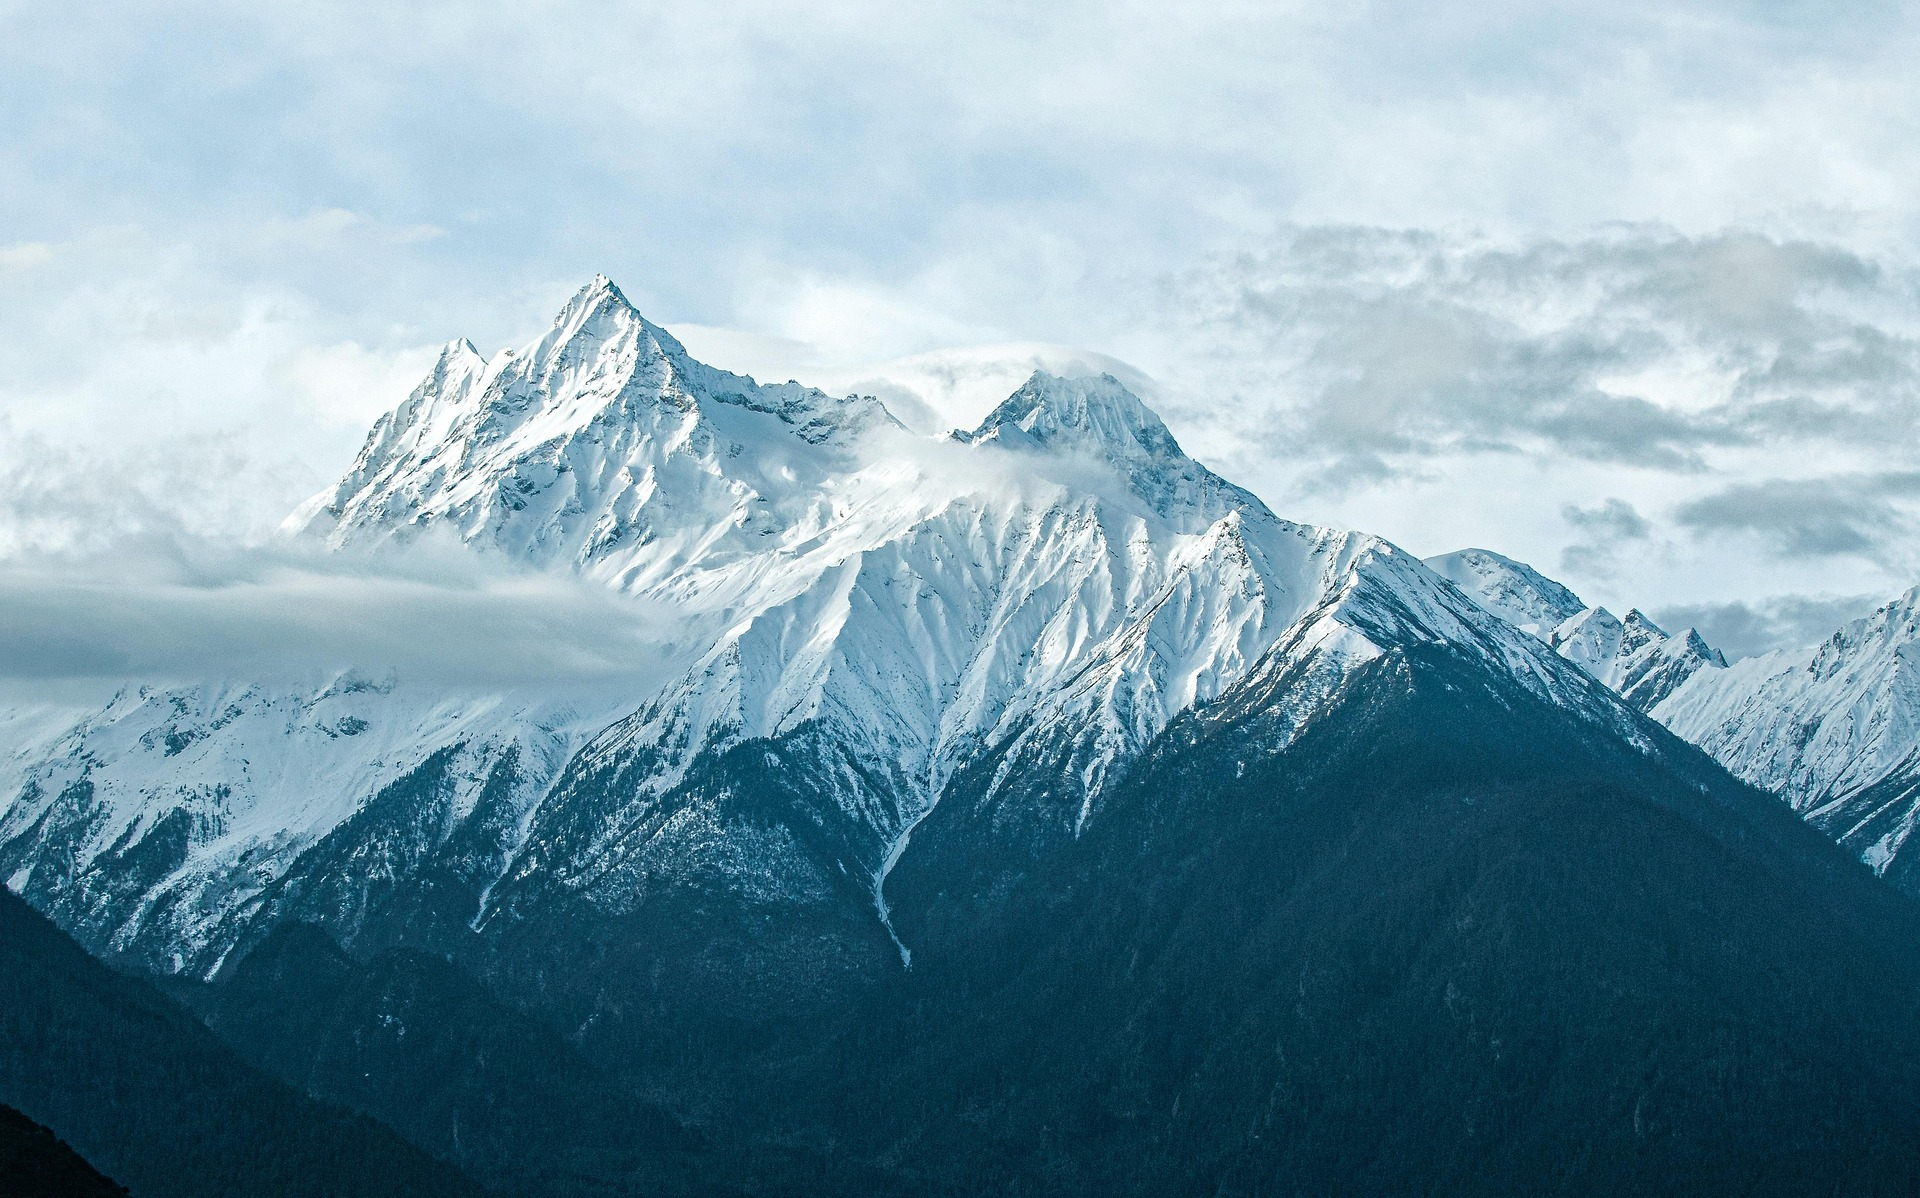
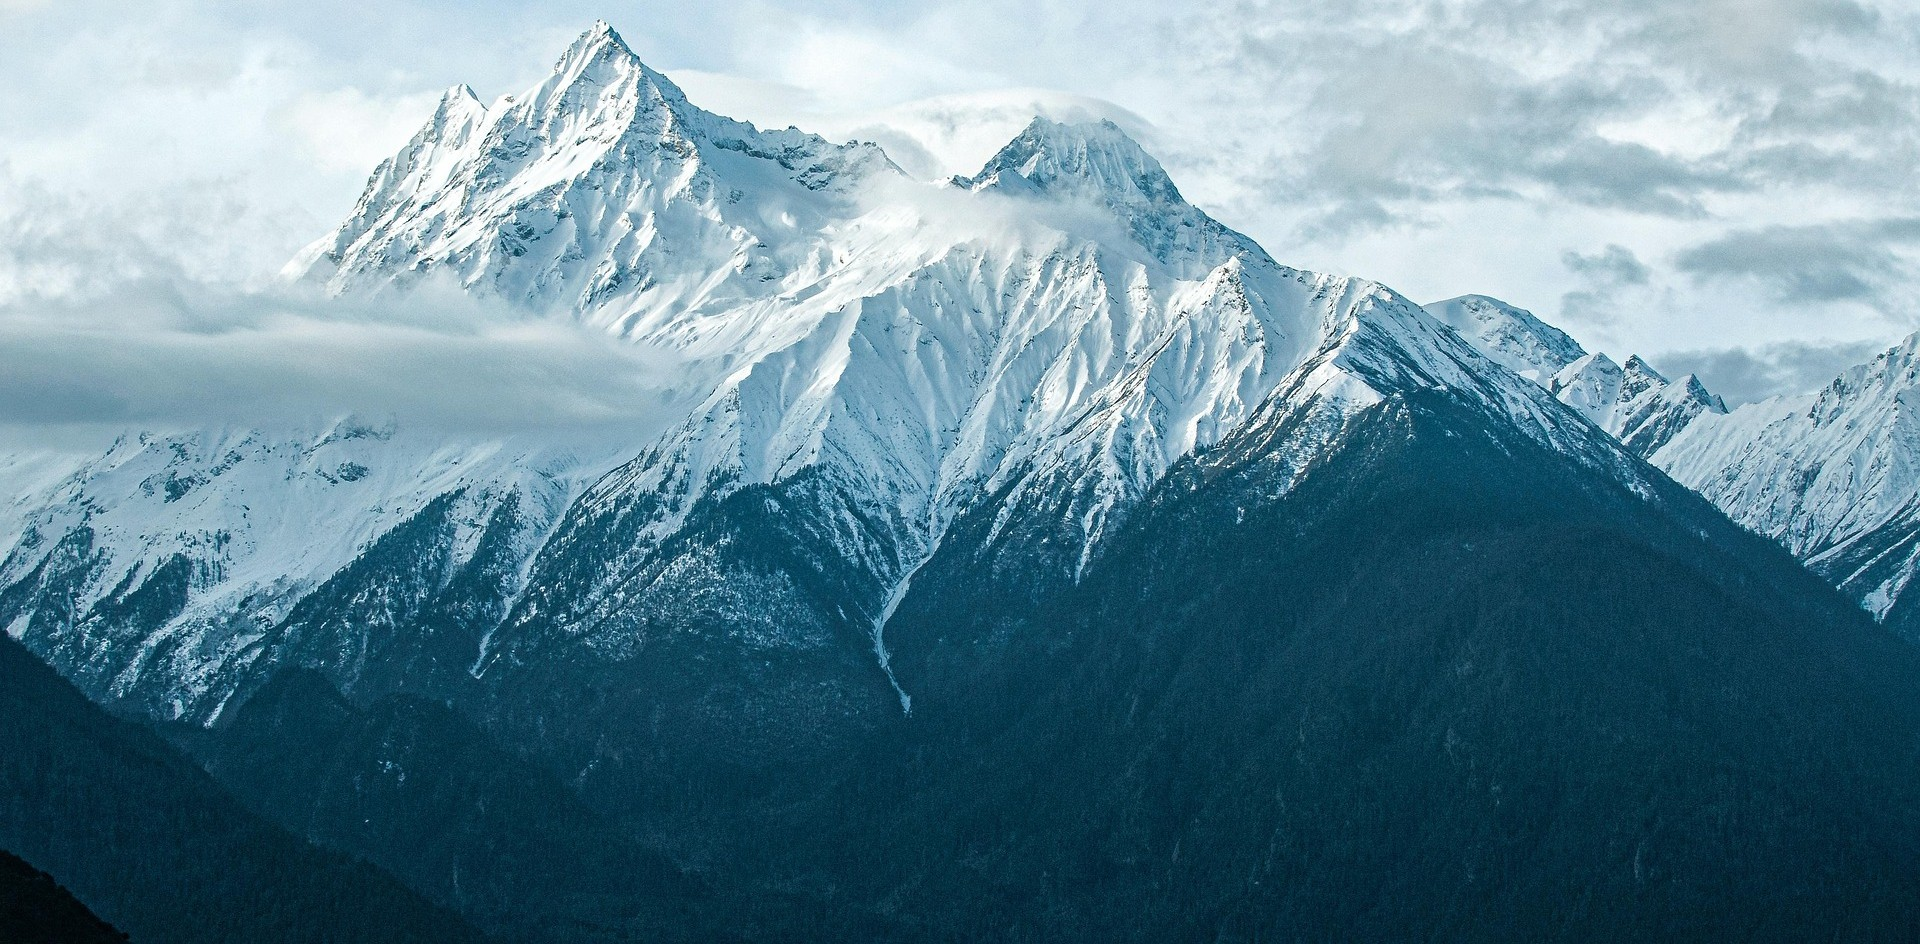
Updated accordingly to the given Image

diff --git a/week-1/profile/style.css b/week-1/profile/style.css
@@ -1,18 +1,19 @@
-body{
+body {
     margin: 0;
-    font-family:system-ui, -apple-system, BlinkMacSystemFont, 'Segoe UI', Roboto, Oxygen, Ubuntu, Cantarell, 'Open Sans', 'Helvetica Neue', sans-serif;
+    font-family: 'Franklin Gothic Medium', 'Arial Narrow', Arial, sans-serif;
+    /* font-family:'Franklin Gothic Medium', 'Arial Narrow', Arial, sans-serif; */
 }
 
-.intro{
+.intro {
     width: 100%;
-    height: 600px;
+    height: 360px;
     position: relative;
     background-image: url(./assets/mountain.jpg);
     background-repeat: no-repeat;
 
 }
 
-.intro::before{
+.intro::before {
     content: "";
     background-color: black;
     background-size: cover;
@@ -28,17 +29,17 @@ body{
 }
 
 .intro .profile{
-    width: 300px;
-    height: 300px;
+    width: 100px;
+    height: 100px;
     border-radius: 100%;
-    top: 50px;
+    top: 70px;
     left: 5%;
     position: absolute;
 }
 
 .intro .name{
     position: absolute;
-    top: 350px;
+    top: 137px;
     left: 5%;
     font-size: 4em;
     color: #fff;
@@ -47,25 +48,26 @@ body{
 
 .intro .designation{
     position: absolute;
-    top: 450px;
+    top: 240px;
     left: 5%;
-    font-size: 3em;
-    color: #c7c7c7;
+    font-size: 1.7em;
+    color: #bbbdc0;
+    font-weight: 500;
     text-transform: capitalize;
 }
 
 .basic-info{
     margin: 0;
     padding: 10px;
-    background-color: rgb(3, 130, 193);
+    background-color: rgba(6,116,190,255);
 }
 
 .basic-info h3{
-    margin-left: 4%;
+    margin-top: 7px;
+    margin-left: 5px;
+    font-size: 1.3em;
     text-transform: uppercase;
-    color: white;
-    font-size: 2em;
-    opacity: 0.8;
+    color: rgba(100,168,213,255);
 }
 
 .basic-info .infos{
@@ -76,54 +78,60 @@ body{
 .basic-info .infos .info{
     border: hidden;
     border-left: solid;
-    border-color: rgba(255, 255, 255, 0.8);
-    width: 30%;
+    border-width: 3.5px;
+    padding-left: 7px;
+    padding-bottom: 7px;
+    padding-top: 0;
+    border-color: rgba(56,144,202,255);
+    min-width: 29%;
     margin: 7px;
-    margin-bottom: 20px;
+    margin-bottom: 17px;
+    font-size: 0.8em;
 }
 
 .basic-info .infos .info h5{
     text-transform: uppercase;
-    color: white;
-    opacity: 0.8;
+    color: rgba(155,199,228,255);
     margin: 10px;
     margin-top: 0;
+    margin-bottom: 0;
     padding: 0;
-    font-size: 1.2em;
+    /* font-size: 1em; */
 }
 
 .basic-info .infos .info p{
     color: white;
     text-transform: capitalize;
     margin: 10px;
+    margin-top: 2px;
     margin-bottom: 0;
     padding: 0;
-    font-size: 1.1em;
+    /* font-size: 1em; */
 }
 
 .about-me, .quote{
     margin: 0;
     padding: 10px;
-    background-color: rgb(2, 141, 210);
+    background-color: rgba(6,126,203,255);
 }
 
 .about-me h3{
     margin: 0;
-    margin-top: 20px;
+    margin-top: 40px;
+    margin-bottom: 45px;
     margin-left: 7px;
-    padding-left: 20px;
+    padding-left: 15px;
     color: white;
-    font-size: 2em;
+    font-size: 1.65em;
     text-transform: uppercase;
     border: hidden;
-    border-left: white solid;
+    border-left: #51a4da solid;
 }
 
 .about-me p{
-    color: white;
+    color: #c0def2;
     margin: 10px;
-    margin-top: 20px;
-    font-size: 1.1em;
+    font-weight: 400;
 }
 
 .quote{
@@ -133,14 +141,18 @@ body{
 .quote .quote-symb{
     margin: 0;
     margin-left: 7px;
-    color: rgba(255, 255, 255, 0.7);
-    font-size: 4em;
+    margin-top: 7px;
+    color: #6ab1e0;
+    font-size: 4.5em;
+    font-family:Georgia, 'Times New Roman', Times, serif;
+    font-weight: 500;
 }
 
 .quote .quote-text{
     margin: 12px;
     margin-left: 15px;
-    font-weight: bold;
+    margin-bottom: 50px;
+    font-weight: bolder;
+    font-size: 180%;
     color: white;
-    font-size: 1.5em;
 }

diff --git a/week-1/profile/index.html b/week-1/profile/index.html
@@ -43,17 +43,20 @@
     </div>
     <div class="about-me">
         <h3>about me</h3>
-        <p> &nbsp;&nbsp;&nbsp;&nbsp;
+        <p>
             I'm a Software Developer proficient in programming languages C, Java, Python and web development frameworks
             Django and Laravel with knowledge of HTML, CSS, JavaScript and PHP. I also have hands-on experience on API
-            Development in Laravel. </p>
+            Development in Laravel. I am currently undergoing training at Mallow Technologies, located in Karur. 
+            I have completed my Bachelor of Engineering in Computer Science and 
+            Engineering at Chettinad College of Engineering and Technology. I have completed a 6-month internship as
+             a Backend(Laravel) Developer at CybrTekNinja from Dec 2024 to May 2025.</p>
     </div>
     <div class="quote">
-        <h2 class="quote-symb">&ldquo;</h2>
+        <h1 class="quote-symb">&ldquo;</h1>
         <p class="quote-text">
-            I wish to expand my skills on a 
+            I wish to expand my skills on a
             daily basis with the help of an
-             employee-focused company.
+            employee-focused company.
         </p>
     </div>
 </body>
